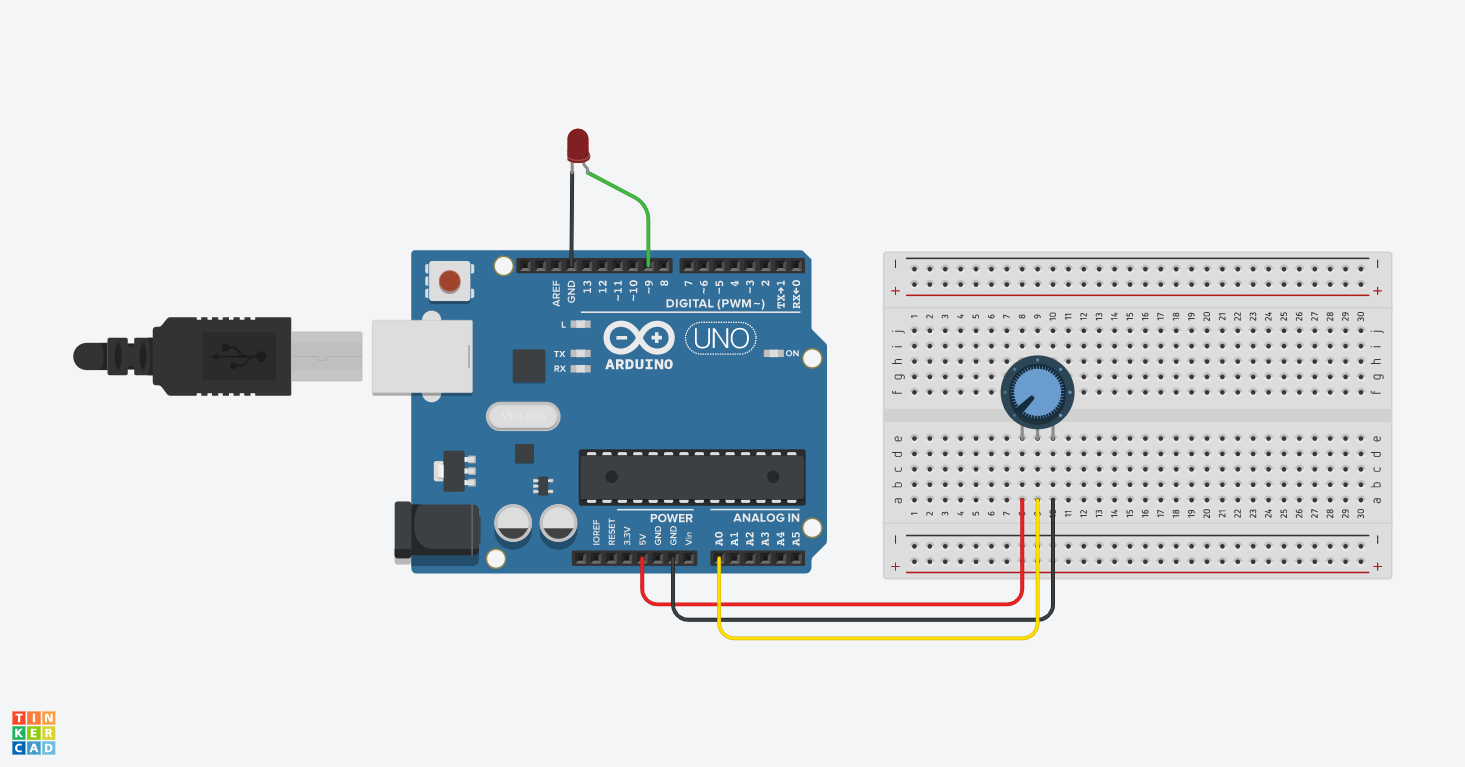
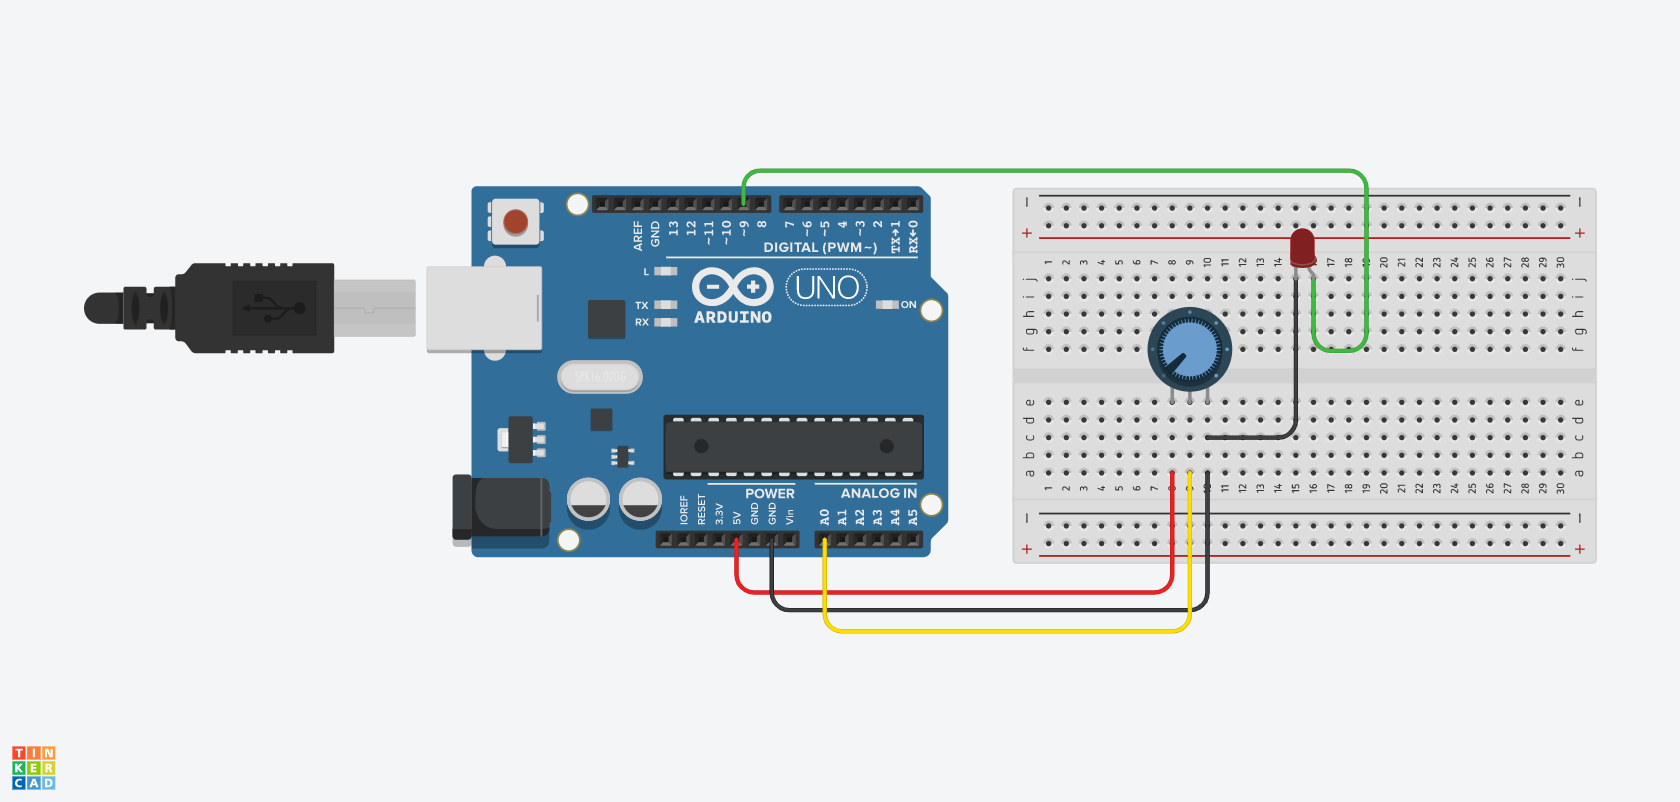
GitBook: [master] one page and 3 assets modified

Changed region(s): [[0.0307, 0.1499, 0.9522, 0.8396], [0.0, 0.9296, 0.0614, 0.9896]]

diff --git a/hardware/arduino/basics.md b/hardware/arduino/basics.md
@@ -114,7 +114,7 @@ void loop() {
 
 {% tabs %}
 {% tab title="Schematic" %}
-![](../../.gitbook/assets/fade-2.png)
+![](../../.gitbook/assets/blink-button-1.png)
 {% endtab %}
 
 {% tab title="Code" %}
@@ -193,8 +193,7 @@ void setup() {
 void loop() {
   int val = analogRead(0);
   Serial.println(val);
-  int remapVal = map(val, 0, 1024, 0, 256);
-  analogWrite(9, remapVal);
+  analogWrite(9, val/4); // 1024/4 = 256
 }
 ```
 
